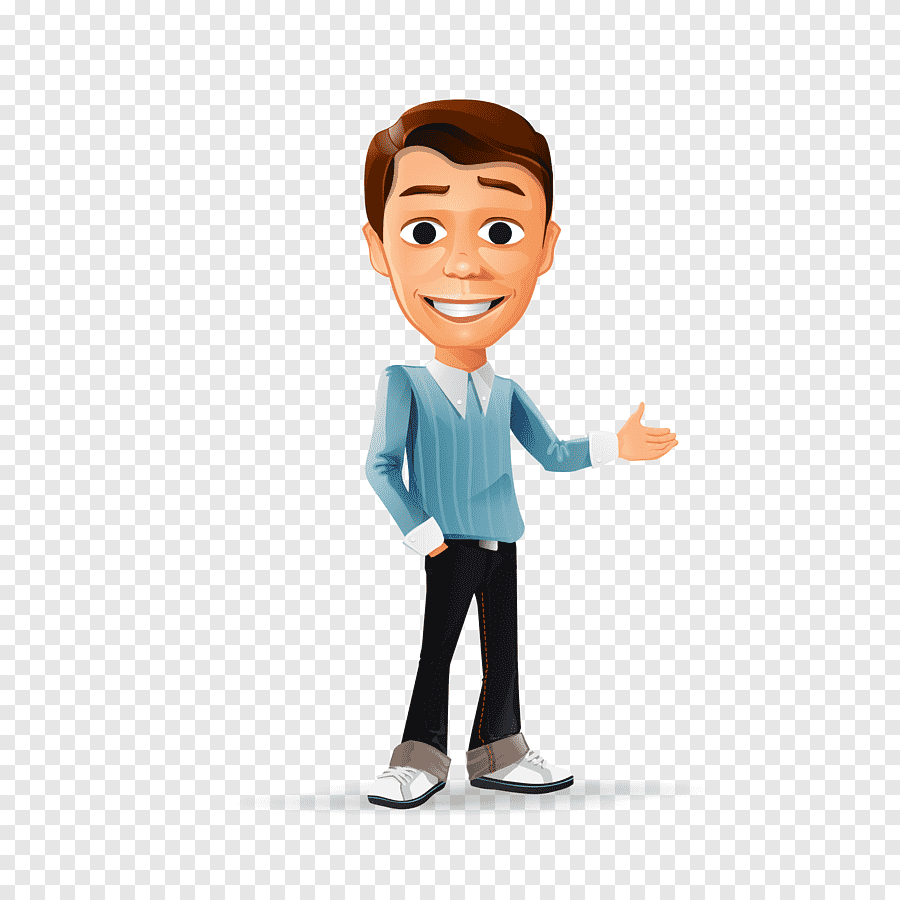
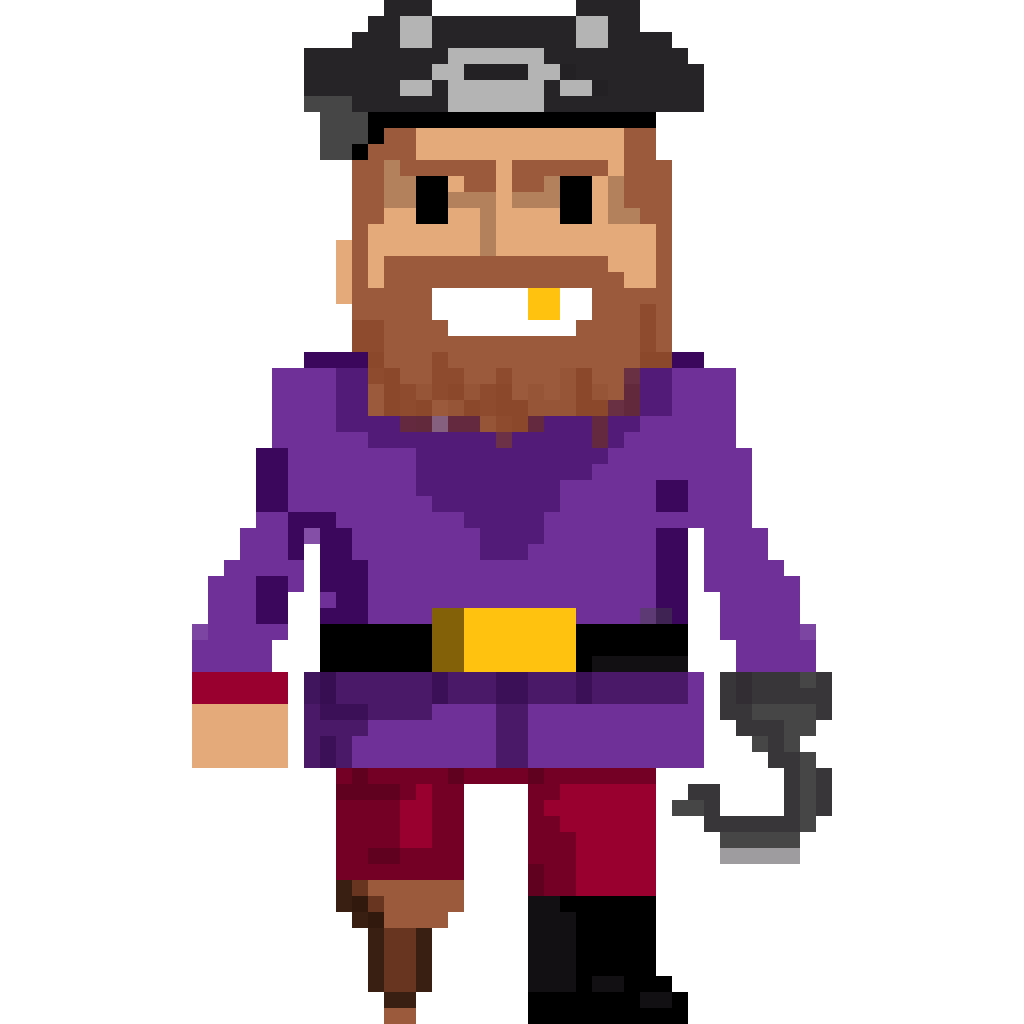
feat(assets): ajouter les images de 4 personnages et drapeau

diff --git a/client/src/app/pages/main-page/main-page.component.html b/client/src/app/pages/main-page/main-page.component.html
@@ -4,7 +4,7 @@
 
     <main class="content">
         <div class="buttons">
-            <button class="button" id="Join" routerLink="/game" ></button>
+            <button class="button" id="Join" routerLink="/game" disabled></button> <!-- enlever le bouton disabled quand on voudra cette fonctionnalité -->
             <button class="button" id="Create" routerLink="/game-creation"></button>
             <button class="button" id="admin" routerLink="/admin"></button>
         </div>    

diff --git a/client/src/app/pages/main-page/main-page.component.scss b/client/src/app/pages/main-page/main-page.component.scss
@@ -97,4 +97,7 @@ html, body {
   color: #2a805e; 
 }
 
-
+button:disabled {
+  opacity: 0.5;
+  cursor: not-allowed;
+}
